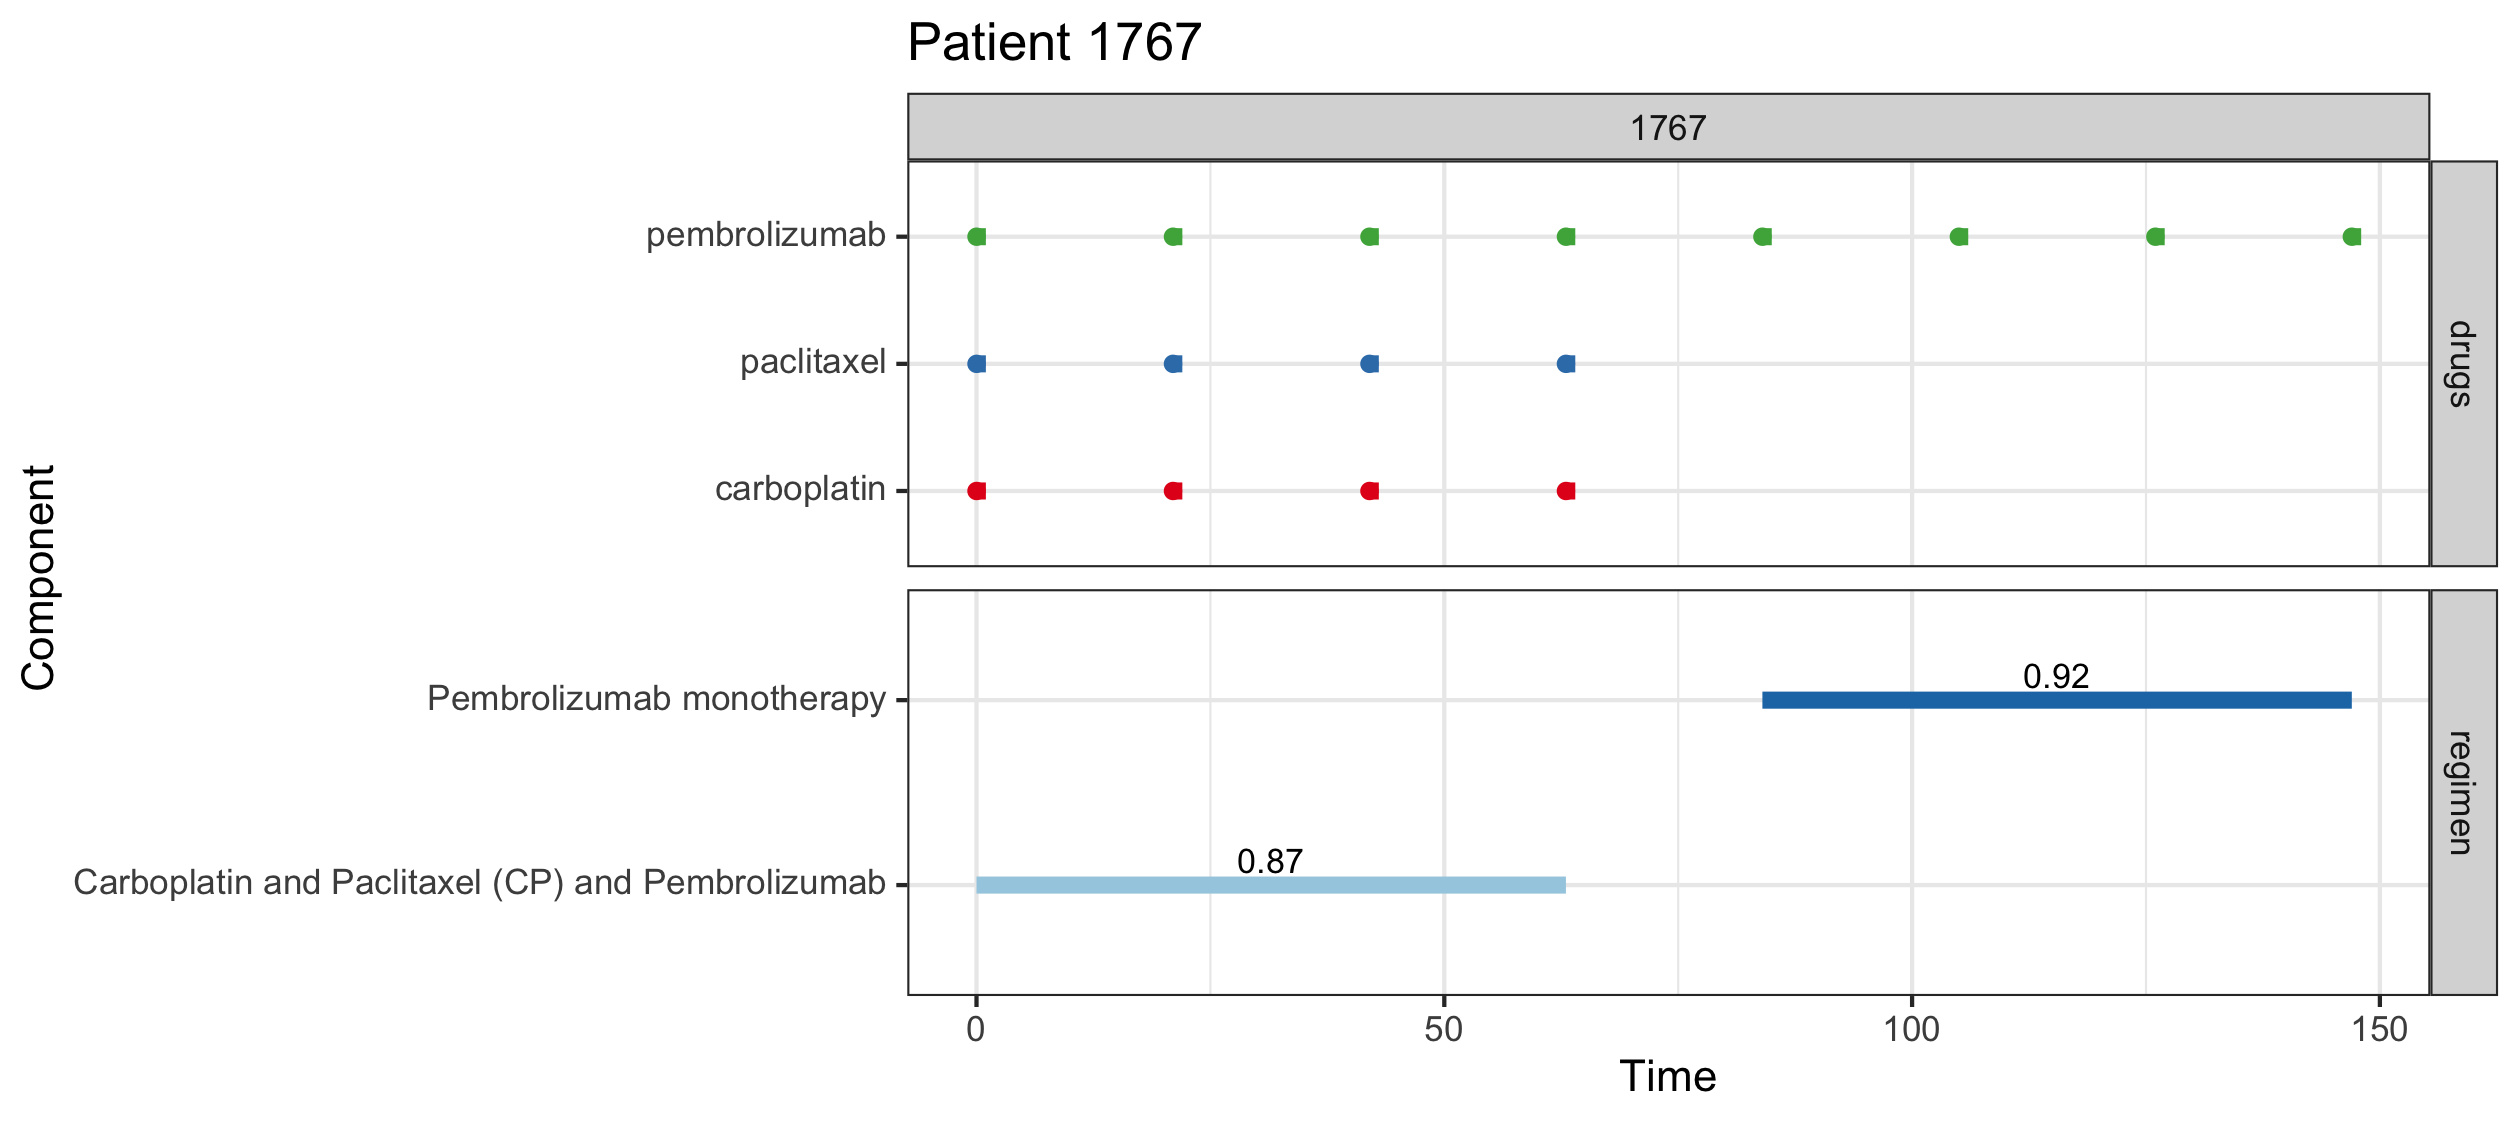
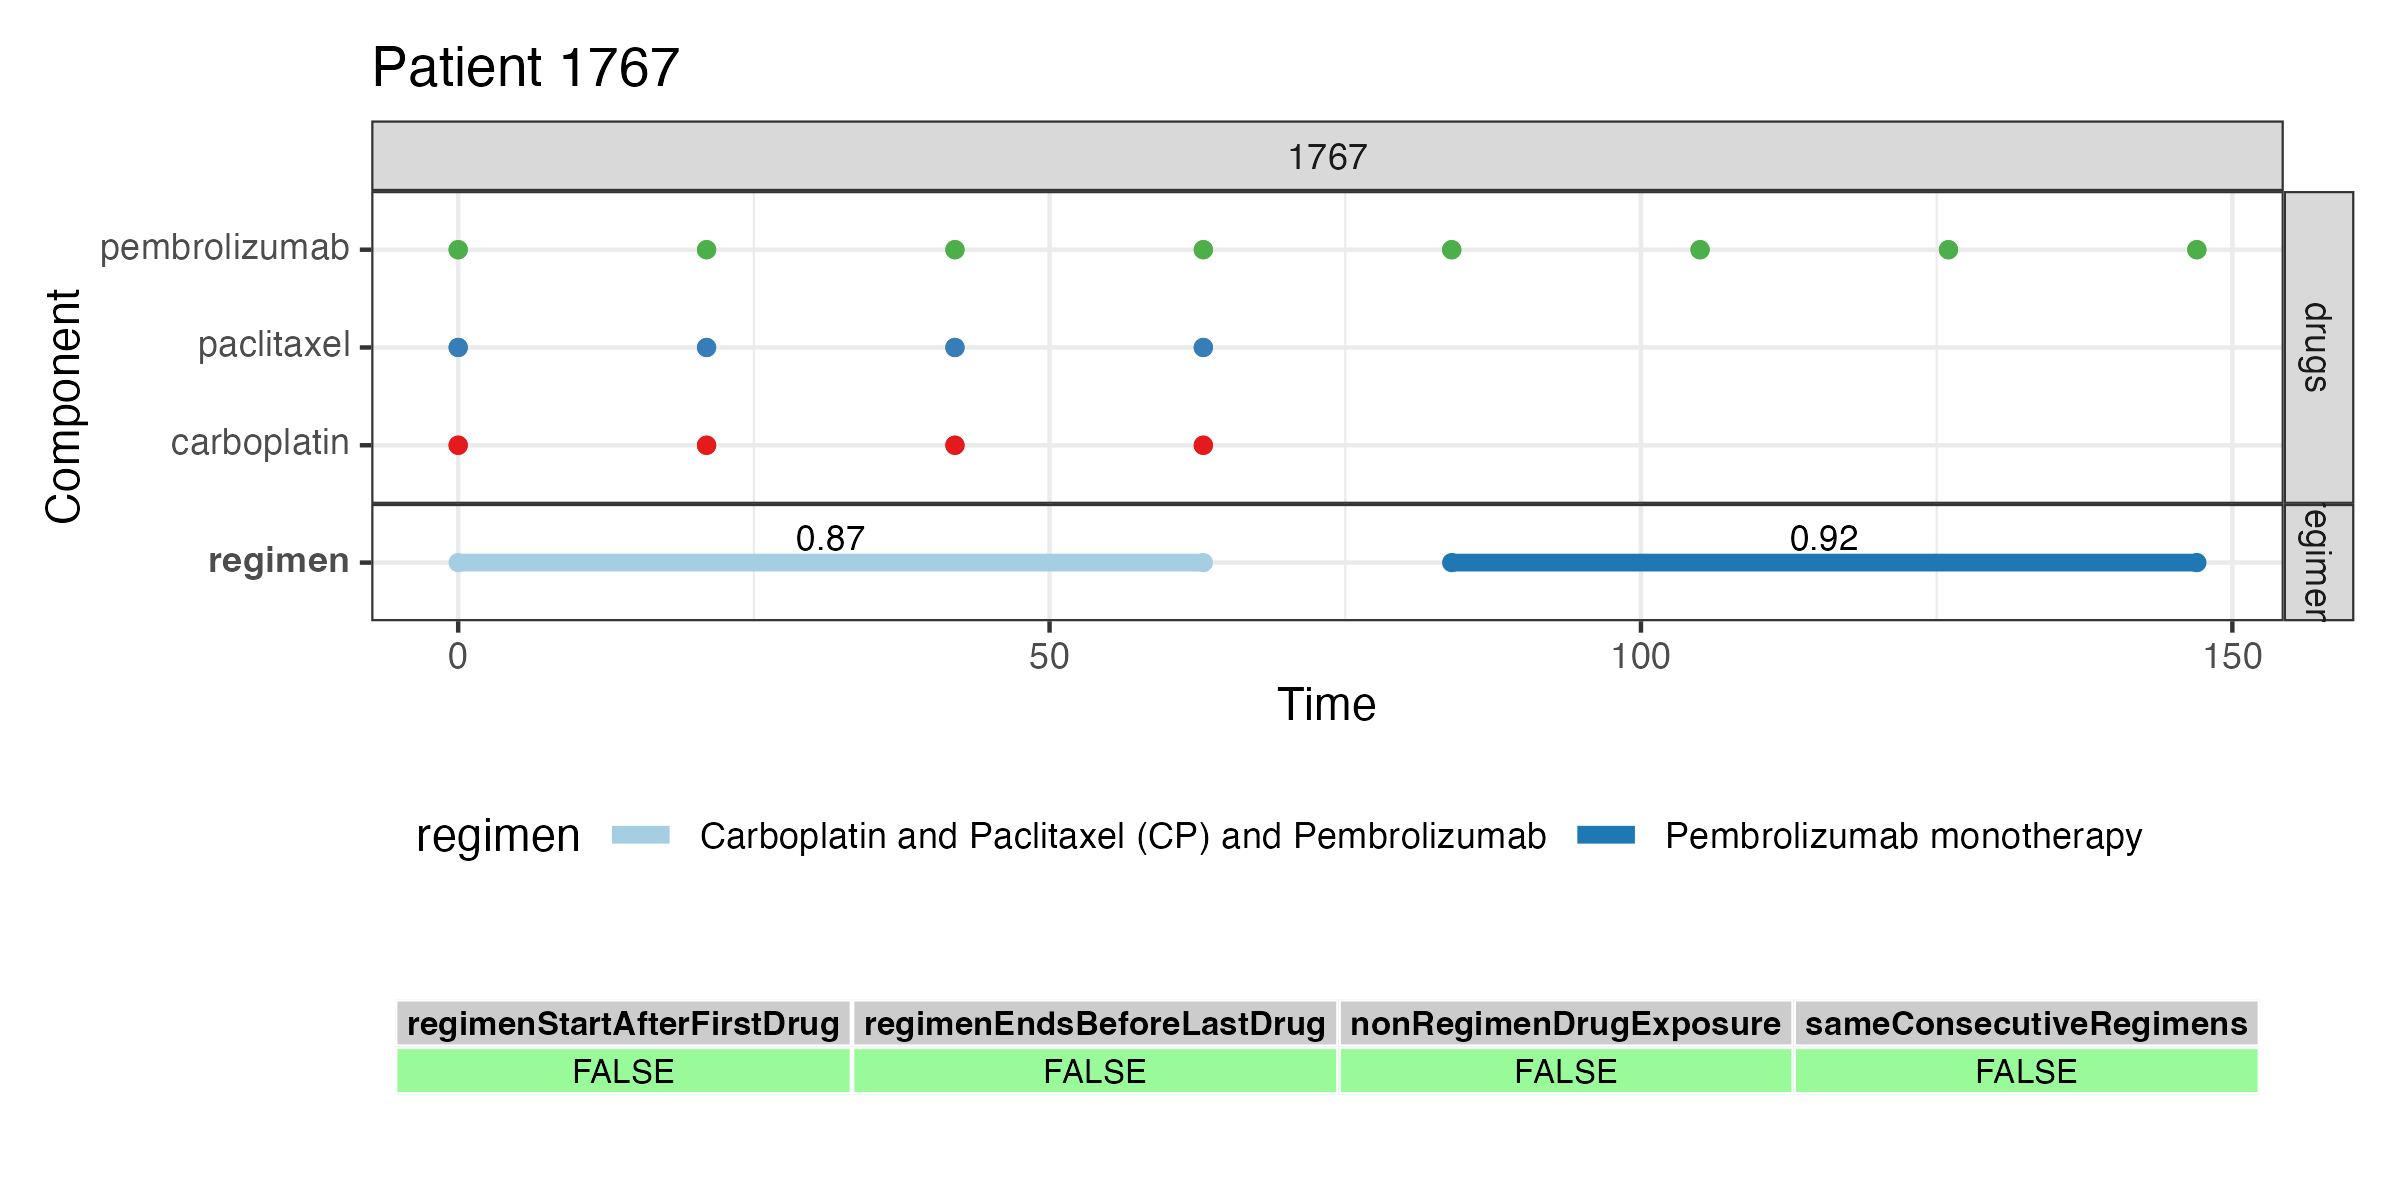
add regimens instead of known drugs, improve readme

diff --git a/README.md b/README.md
@@ -124,11 +124,24 @@ Raw alignments are subsequently post-processed. These steps include resolving ov
     pa <- ra %>% 
             processAlignments(regimenCombine = 28)
 
+To get alignment summary statistics per patient
+
+```
+sa <- generateSummaryReport(pa, regimens)
+```
+Where the columns are: 
+| Column Name                  | Description                                                                                                         |
+| ---------------------------- | ------------------------------------------------------------------------------------------------------------------- |
+| `regimenStartAfterFirstDrug` | Indicates whether the regimen start date occurs after the first recorded drug exposure. |
+| `regimenEndsBeforeLastDrug`  | Indicates whether the regimen end date occurs before the last recorded drug exposure.   |
+| `sameConsecutiveRegimens`    | Indicates whether consecutive regimens are identical.                              |
+| `nonRegimenDrugExposure`     | Indicates the presence of drug exposures that do not belong to any defined regimen.                                 |
+| `anyDrugMissingInRegimens`   | Indicates whether expected drugs are missing from one or more regimen definitions.                                  |
 
 Individual patient regimens can be visualized using `plotAlignment`.
 
 ```
-p <- plotAlignment(pa)
+p <- plotAlignment(pa, regimens)
 p
 ```
 
@@ -154,8 +167,8 @@ These functions display the most frequent regimens, but additional regimens can 
 
 Finally, basic statistics is providedy by: 
 
-    regStats <- processedEras %>% g
-            enerateRegimenStats()
+    regStats <- processedEras %>% 
+            generateRegimenStats()
 
 
 ### DatabaseConnector
